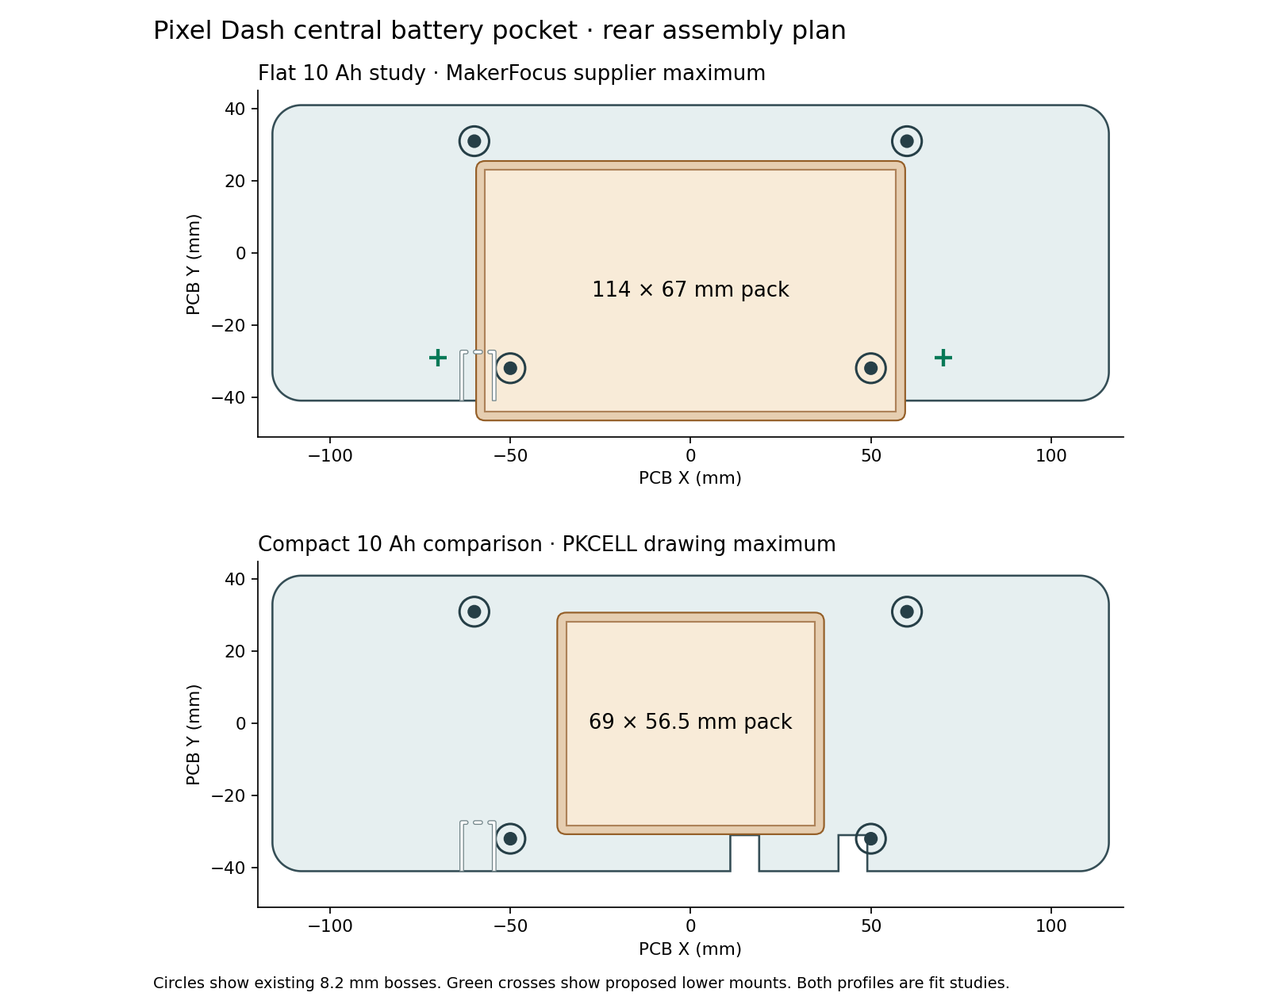
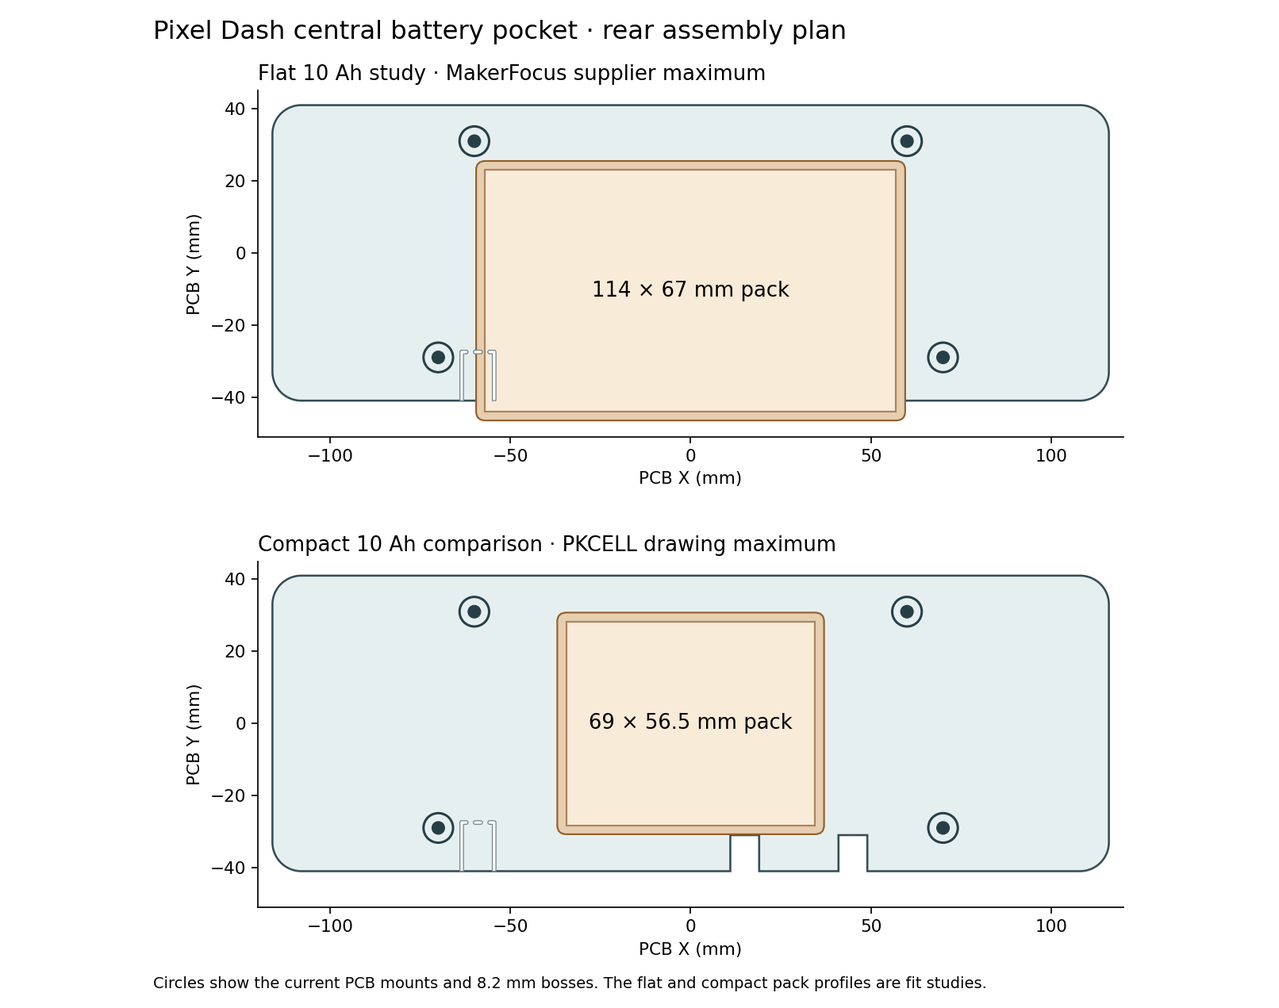
Move the approved lower mounts and replace the DBI connector wiring with RGB888 raster assignments

diff --git a/production/assemble.py b/production/assemble.py
@@ -74,18 +74,6 @@ for e in channel:
         continue
     board.append(rename(e,mapping))
 
-# Give panel passives functional designators and preserve pin/net identities.
-panel_names = {"R_GPU_LCD_WR":"R_LCD_WR","R_GPU_LCD_RD":"R_LCD_RD"}
-def panel_name(value):
-    if isinstance(value, str):
-        for k, v in panel_names.items():
-            value=value.replace(k,v)
-    elif isinstance(value, list):
-        return [panel_name(v) for v in value]
-    elif isinstance(value, dict):
-        return {k:panel_name(v) for k,v in value.items()}
-    return value
-board = panel_name(board)
 pins = { (p["source_component_id"],hint):p for p in board if p["type"]=="source_port"
          for hint in [p["name"],*p.get("port_hints",[])] }
 parts = {e["name"]:e for e in board if e["type"]=="source_component"}
@@ -115,6 +103,45 @@ with (root/"interface.csv").open() as f:
         if balls[ball] != row["Pad"]:
             raise ValueError(f"Wrong processor ball {row}")
         interface_trace(row["Signal"], "U1", ball, row["Peripheral"], row["Pin"])
+
+# The bare raster panel has independent analog rails and a floating LED string.
+# Bind the physical contacts independently of the pending bias and LED drivers.
+panel_rails = {"GND": (5, 36, 38, 48), "LCD_VCOM": (6, 46), "LCD_DVDD": (7,),
+               "LCD_VGH": (41,), "LCD_VGL": (42,), "LCD_AVDD": (43,),
+               "LCD_LED_A": (1, 2), "LCD_LED_K": (3, 4)}
+def bind_supply(ref, terminal, net):
+    pin = port(ref, terminal)
+    key = net["subcircuit_connectivity_map_key"]
+    if pin.get("subcircuit_connectivity_map_key", key) != key:
+        raise ValueError(f"Conflicting assignment for {ref}.{terminal}")
+    pin["subcircuit_connectivity_map_key"] = key
+    sid = f"rail_{ref}_{terminal}"
+    board.append(dict(type="source_trace", source_trace_id=sid, name=sid,
+                      connected_source_port_ids=[pin["source_port_id"]],
+                      connected_source_net_ids=[net["source_net_id"]], subcircuit_connectivity_map_key=key))
+    return sid
+
+# The old FPC doubled as a ground tie for the right shoulder switch.
+bind_supply("SW_R", "pin4", ground(board))
+for name, numbers in panel_rails.items():
+    if name == "GND":
+        net = ground(board)
+    else:
+        net = dict(type="source_net", source_net_id="raster_" + name, name=name,
+                   subcircuit_connectivity_map_key="raster_" + name)
+        board.append(net)
+    for number in numbers:
+        terminal = f"pin{number}"
+        sid = bind_supply("J_LCD", terminal, net)
+        if name == "GND":
+            land = one(board, "pcb_port", source_port_id=port("J_LCD", terminal)["source_port_id"])
+            board.append(dict(type="pcb_via", pcb_via_id=f"pcb_raster_ground_{number}",
+                              source_trace_id=sid, source_net_id=net["source_net_id"],
+                              subcircuit_connectivity_map_key=net["subcircuit_connectivity_map_key"],
+                              x=land["x"], y=land["y"], from_layer="top", to_layer="inner1",
+                              layers=["top", "inner1"], hole_diameter=0.125, outer_diameter=0.28))
+for touch in ("SCL", "SDA", "IRQ"):
+    bind_supply("R_TOUCH_" + touch, "pin2", one(board, "source_net", name="VDD_IO_3V3_SEQ"))
 
 for index, axis in enumerate(("LX", "LY", "RX", "RY")):
     interface_trace("ADC_" + axis, "U_JOY_ADC", f"AIN{index}", "C_JOY_" + axis, "pin1")
@@ -251,6 +278,17 @@ for number in (3, 98, 108, 109):
         if {point["from_layer"], point["to_layer"]} != {"top", "inner1"}:
             raise ValueError(f"Unexpected ground transition in {number}")
         add_ground_return(trace, point, f"pcb_retained_ground_{number}_{index}")
+# Both L1-L2 transitions on the retained backlight gate need plated lands.
+gate = one(board, "pcb_trace", pcb_trace_id="pcb_trace_14")
+gate_source = one(board, "source_trace", source_trace_id=gate["source_trace_id"])
+for index, via in enumerate(p for p in gate["route"] if p["route_type"] == "via"):
+    if {via["from_layer"], via["to_layer"]} != {"top", "inner1"}:
+        raise ValueError("Unexpected backlight gate span")
+    board.append(dict(type="pcb_via", pcb_via_id=f"pcb_backlight_gate_{index}",
+                      pcb_trace_id=gate["pcb_trace_id"], source_trace_id=gate_source["source_trace_id"],
+                      subcircuit_connectivity_map_key=gate_source["subcircuit_connectivity_map_key"],
+                      x=via["x"], y=via["y"], from_layer="top", to_layer="inner1",
+                      layers=["top", "inner1"], hole_diameter=0.125, outer_diameter=0.28))
 for index, (x, y) in enumerate(json.loads((root / "system-ground-stitches.json").read_text())):
     board.append(dict(type="pcb_via", pcb_via_id=f"pcb_mmc0_return_{index}",
                       source_net_id=gnd["source_net_id"],

diff --git a/checks/check-panel-storage.py b/checks/check-panel-storage.py
@@ -1,30 +1,39 @@
-"""Check MMC card-detect and optional panel touch wiring at both IC and connector."""
+"""Validate raster pinmux, FPC color order, MMC card detect and touch bias connections."""
+import csv
 import json
 import sys
 from pathlib import Path
 
-elements = json.loads(Path(sys.argv[1]).read_text())
-components = {p["name"]: p["source_component_id"] for p in elements if p["type"] == "source_component"}
-ports = {(p["source_component_id"], p["name"]): p["source_port_id"] for p in elements if p["type"] == "source_port"}
-source = [t for t in elements if t["type"] == "source_trace"]
+board = json.loads(Path(sys.argv[1]).read_text())
+root = Path(__file__).resolve().parents[1]
+parts = {e["name"]: e["source_component_id"] for e in board if e["type"] == "source_component"}
+ports = {(e["source_component_id"], e["name"]): e["source_port_id"] for e in board if e["type"] == "source_port"}
+traces = {e["source_trace_id"]: e for e in board if e["type"] == "source_trace"}
+with (root / "production/interface.csv").open() as f:
+    rows = {r["Signal"]: r for r in csv.DictReader(f)}
+balls = json.loads((root / "am3354/processor-balls.json").read_text())
+# TI SPRZ360 section 3.1.1 Figure 2, in LCD_DATA0 through LCD_DATA23 order.
+colors = "R3 R4 R5 R6 R7 G2 G3 G4 G5 G6 G7 B3 B4 B5 B6 B7 R2 B2 R1 G1 B1 R0 G0 B0".split()
+contacts = {f"{color}{bit}": start+7-bit for color,start in (("B",12),("G",20),("R",28)) for bit in range(8)}
 keys = set()
-for net, ball, part, pin, pull in [
-    ("TOUCH_SCL", "D15", "J_LCD", "pin44", "R_TOUCH_SCL"),
-    ("TOUCH_SDA", "D16", "J_LCD", "pin45", "R_TOUCH_SDA"),
-    ("TOUCH_IRQ", "V14", "J_LCD", "pin46", "R_TOUCH_IRQ"),
-    ("SD_DETECT", "C15", "J_SD", "CD", None),
-]:
-    cpu = ports[components["U1"], ball]
-    endpoint = ports[components[part], pin]
-    system, = [t for t in source if t["source_trace_id"] == "system_" + net]
-    assert {cpu, endpoint} == set(system["connected_source_port_ids"]), net
-    key = system["subcircuit_connectivity_map_key"]
-    assert key not in keys
+def check(signal, ball, mode, part, pin):
+    row = rows[signal]
+    assert (row["Ball"], row["Pad"], int(row["Mode"])) == (ball, balls[ball], mode), signal
+    trace = traces["system_" + signal]
+    assert set(trace["connected_source_port_ids"]) == {ports[parts["U1"],ball], ports[parts[part],pin]}, signal
+    key = trace["subcircuit_connectivity_map_key"]
+    assert key not in keys, signal
     keys.add(key)
-    if pull:
-        pull_pin = ports[components[pull], "pin1"]
-        assert any({pull_pin,endpoint}.issubset(t["connected_source_port_ids"]) and
-                   t["subcircuit_connectivity_map_key"] == key for t in source), net
-sd_data3, = [t for t in source if t["source_trace_id"] == "system_SD_DAT3"]
-assert sd_data3["subcircuit_connectivity_map_key"] not in keys
-print("Panel I2C1, touch interrupt and separate MMC0 card-detect endpoints verified in source.")
+
+upper = ["U13","V13","R12","T12","U12","T11","T10","U10"]
+for i,color in enumerate(colors):
+    ball = next(b for b,p in balls.items() if p == f"LCD_DATA{i}") if i < 16 else upper[i-16]
+    check(f"LCD_D{i}", ball, int(i >= 16), "J_LCD", f"pin{contacts[color]}")
+for signal,ball,contact,mode in (("PCLK","V5",37,0),("HSYNC","R5",11,0),("VSYNC","U5",10,0),
+                                  ("DE","R6",9,0),("RESET","R13",44,7)):
+    check("LCD_"+signal, ball, mode, "J_LCD", f"pin{contact}")
+for sig,ball,mode in (("SCL","D15",3),("SDA","D16",3),("IRQ","V14",7)):
+    check("TOUCH_"+sig,ball,mode,"R_TOUCH_"+sig,"pin1")
+check("SD_DETECT","C15",5,"J_SD","CD")
+assert traces["system_SD_DAT3"]["subcircuit_connectivity_map_key"] not in keys
+print("Validated 24 RGB888 pin assignments, raster timing pads, reset, touch pull-up signal ends and MMC0 detect.")

diff --git a/checks/check-battery-pocket.py b/checks/check-battery-pocket.py
@@ -6,11 +6,11 @@ import numpy as np
 import trimesh
 from shapely.geometry import Point, box
 
-board_path, flat_mesh, compact_mesh = sys.argv[1:]
+board_path, flat_mesh, compact_mesh, carrier_mesh = sys.argv[1:]
 with open(board_path) as stream:
     board = json.load(stream)
 mounts = [(p["x"], p["y"]) for p in board if p["type"] == "pcb_hole" and p["hole_diameter"] == 3.3]
-if len(mounts) != 4:
+if set(mounts) != {(-70,-29), (70,-29), (-60,31), (60,31)} or len(mounts) != 4:
     raise ValueError("Expected four 3.3 mm mounting holes")
 for name, mesh_path, dimensions, cy in (
     ("MakerFocus 9065115", flat_mesh, (114, 67, 10.8), -10.5),
@@ -27,9 +27,26 @@ for name, mesh_path, dimensions, cy in (
     # between surfaces for the intersection calculation.
     cell = trimesh.creation.box(dimensions)
     cell.apply_translation([0, cy, -z/2-1.99])
-    if mesh.intersection(cell, engine="manifold").volume > 1e-6:
+    overlap = mesh.intersection(cell, engine="manifold")
+    if not overlap.is_empty and overlap.volume > 1e-6:
         raise ValueError(f"{name} body intersects pocket walls")
     outer = box(*mesh.bounds[0][:2], *mesh.bounds[1][:2])
     conflicts = [p for p in mounts if outer.distance(Point(p)) < 4.1]
+    if conflicts:
+        raise ValueError(f"Pack pocket collides with bosses at {conflicts}")
     print(f"{name}: closed pocket solid, maximum pack body clears walls. "
           f"Overlapping 8.2 mm boss envelopes in plan: {conflicts}")
+
+# Verify actual material and voids through the exported rear carrier at each PCB seat.
+carrier = trimesh.load_mesh(carrier_mesh)
+if not carrier.is_volume or len(carrier.split()) != 1:
+    raise ValueError("Rear carrier must be one closed solid")
+if not np.allclose(carrier.bounds, [[-119.5,-51,-20.3],[119.5,51,-0.8]], atol=1e-5):
+    raise ValueError("Unexpected carrier extent")
+for x, y in mounts:
+    for z, bore in ((-1.0, 1.65), (-6.0, 3.1)):
+        for dx, dy in ((1,0),(-1,0),(0,1),(0,-1)):
+            probes = [[x+dx*r, y+dy*r, z] for r in (bore-.03, bore+.03, 4.07, 4.13)]
+            if carrier.contains(probes).tolist() != [False,True,True,False]:
+                raise ValueError(f"Incorrect seat, head relief or outside wall at {(x,y,z)}")
+print("All four rear-carrier screw bores and head recesses align with the current PCB holes.")

diff --git a/production/raster_panel.py b/production/raster_panel.py
@@ -1,0 +1,45 @@
+"""Remove the old DBI interface before binding the shared FPC lands to the raster panel."""
+import re
+
+LEGACY_PARTS = {"R_GPU_LCD_WR", "R_GPU_LCD_RD", "R_LCD_MODE_PD", "R_LCD_LED", "C_LCD_VCI", "C_LCD_VDDI"}
+TOUCH_PULLS = {"R_TOUCH_SCL", "R_TOUCH_SDA", "R_TOUCH_IRQ"}
+
+
+def clear_dbi_interface(board):
+    parts = {e["name"]: e["source_component_id"] for e in board if e["type"] == "source_component"}
+    dead = {parts[name] for name in LEGACY_PARTS}
+    touch = {parts[name] for name in TOUCH_PULLS}
+    ports = {e["source_port_id"] for e in board if e["type"] == "source_port" and
+             (e["source_component_id"] in touch or
+              (e["source_component_id"] == parts["J_LCD"] and 1 <= e["pin_number"] <= 50))}
+    disconnected_symbols = {e["schematic_port_id"] for e in board if e["type"] == "schematic_port"
+                            and e.get("source_port_id") in ports}
+    dead.update(e["source_trace_id"] for e in board if e["type"] == "source_trace"
+                and ports.intersection(e["connected_source_port_ids"]))
+    while True:
+        removed = set()
+        for e in board:
+            kind = e["type"]
+            identity = kind + "_id"
+            if identity not in e or e[identity] in dead:
+                continue
+            if any((key.endswith("_id") and isinstance(value, str) and value in dead)
+                   or (key.endswith("_ids") and isinstance(value, list) and dead.intersection(value))
+                   for key, value in e.items() if key != identity):
+                removed.add(e[identity])
+        if not removed:
+            break
+        dead.update(removed)
+    result = []
+    for e in board:
+        if e.get(e["type"] + "_id") in dead:
+            continue
+        if e["type"] == "schematic_trace" and disconnected_symbols.intersection(
+                re.findall(r"schematic_port_\d+", e.get("source_trace_id", ""))):
+            continue
+        if e.get("source_port_id") in ports:
+            e.pop("subcircuit_connectivity_map_key", None)
+            if e["type"] == "schematic_port":
+                e["is_connected"] = False
+        result.append(e)
+    return result

diff --git a/production/build_retained.py b/production/build_retained.py
@@ -3,6 +3,7 @@ import gzip
 import json
 import sys
 from pathlib import Path
+from raster_panel import clear_dbi_interface
 
 def build():
     root = Path(__file__).parent
@@ -20,25 +21,7 @@ def build():
             element["route"] = route
     if edits:
         raise ValueError(f"Unapplied route edits: {list(edits)}")
-    # ER-TFT070A2-6 reserves contacts 49 and 50. The old panel grounded them,
-    # including a redundant bridge from the microSD bulk capacitor return.
-    lcd, = [e for e in board if e["type"] == "source_component" and e.get("name") == "J_LCD"]
-    nc = {e["source_port_id"] for e in board if e["type"] == "source_port"
-          and e["source_component_id"] == lcd["source_component_id"] and e["pin_number"] in (49, 50)}
-    if len(nc) != 2:
-        raise ValueError("Missing reserved LCD contacts")
-    traces = {e["source_trace_id"] for e in board if e["type"] == "source_trace"
-              and nc.intersection(e["connected_source_port_ids"])}
-    symbols = {e["schematic_port_id"] for e in board if e["type"] == "schematic_port"
-               and e.get("source_port_id") in nc}
-    board = [e for e in board if e.get("source_trace_id") not in traces and not
-             (e["type"] == "schematic_trace" and symbols.intersection(e.get("source_trace_id", "").split("-")))]
-    for e in board:
-        if e.get("source_port_id") in nc:
-            e.pop("subcircuit_connectivity_map_key", None)
-            if e["type"] == "schematic_port":
-                e["is_connected"] = False
-    return board
+    return clear_dbi_interface(board)
 
 if __name__ == "__main__":
     Path(sys.argv[1]).write_text(json.dumps(build(), separators=(",", ":")))

diff --git a/checks/audit-vref.py b/checks/audit-vref.py
@@ -73,7 +73,7 @@ def verify(elements, check_ddr_power=False, check_ddr_signals=False, check_syste
             terminal = "pin1" if axis[1] == "X" else "pin4"
             required.append([f"{connector}.{terminal}", f"R_JOY_{axis}.pin1"])
     if check_retained_returns:
-        required[2].extend(["C_SD_BULK.pin2", "R_LOGIC_FB_BOTTOM.pin2", "C_AMP_VDD_BULK.pin2", "U_SPK_AMP.PGND2",
+        required[2].extend([*(f"J_LCD.pin{n}" for n in (5, 36, 38, 48)), "C_SD_BULK.pin2", "R_LOGIC_FB_BOTTOM.pin2", "C_AMP_VDD_BULK.pin2", "U_SPK_AMP.PGND2",
                             "J_SPK.pin3", "C_3V3_IN.pin2", "R_LCD_BL_PULLDOWN.pin2"])
     if check_control_bus:
         for signal, ball in (("SCL", "C16"), ("SDA", "C17")):

diff --git a/production/wide_layout.py b/production/wide_layout.py
@@ -12,6 +12,11 @@ def apply_wide_layout(board):
     outline = json.loads(Path(__file__).with_name("wide-outline.json").read_text())
     spec, = [e for e in board if e["type"] == "pcb_board"]
     spec.update(outline)
+    # Move only the two lower enclosure mounts on the wide PCB.
+    for side in (-1, 1):
+        hole, = [e for e in board if e["type"] == "pcb_hole" and e.get("hole_diameter") == 3.3
+                 and (e["x"], e["y"]) == (side * 50, -32)]
+        hole.update(x=side * 70, y=-29)
     # Shell-specific display keepers, cell models and fasteners belong to the
     # small enclosure. The wide design retains the actual controller mechanisms.
     mechanical_offsets = {

diff --git a/checks/check-sysboot.py b/checks/check-sysboot.py
@@ -25,7 +25,9 @@ for bit in range(16):
         word |= 1 << bit
     ball, = [p for p, signal in balls.items() if signal == f"LCD_DATA{bit}"]
     cpu = pin(parts["U1"], ball)
-    panel = pin(parts["J_LCD"], f"pin{32-bit}")
+    # RGB888 Figure 2 assigns the low word to R[7:3], G[7:2], B[7:3].
+    panel_contact = (32,31,30,29,28,25,24,23,22,21,20,16,15,14,13,12)[bit]
+    panel = pin(parts["J_LCD"], f"pin{panel_contact}")
     tap, = [t for t in traces if {cpu,b}.issubset(t["connected_source_port_ids"])]
     bus, = [t for t in traces if {cpu,panel}.issubset(t["connected_source_port_ids"])]
     key = bus["subcircuit_connectivity_map_key"]

diff --git a/README.md b/README.md
@@ -2,15 +2,15 @@
 
 ## Wide handheld checkpoint
 
-All 50 AM3354-to-DDR3L signals reach their intended balls on 50 distinct electrical nodes. After local changes to 33 routes, the adjacent plane covers the full trace width for all 50 signals outside their own via launch antipads. The board-wide 0.102 mm unrelated-copper, 0.1524 mm via-edge and drill-spacing checks pass. Each of the 7,325 routed strokes matches the copper Gerbers, and all five drill files match the board.
+All 50 AM3354-to-DDR3L signals reach their intended balls on 50 distinct electrical nodes. After local changes to 33 routes, the adjacent plane covers the full trace width for all 50 signals outside their own via launch antipads. The board-wide 0.102 mm unrelated-copper, 0.1524 mm via-edge and drill-spacing checks pass. Each of the 6,911 routed strokes matches the copper Gerbers, and all five drill files match the board.
 
-The byte-0 and byte-1 planar spreads measure 7.091 and 5.347 mm against the 0.635 mm limit. Clock, DQS0 and DQS1 planar mismatch measures 0.095, 0.110 and 0.090 mm against 0.127 mm. Four address/control signals remain outside their length window. Impedance and signal timing still require verification on the finished stackup. The engineering export contains 216 fitted references. The assembly orientation screen flags six references for review. Of the 70 tracked handheld connections, 30 have physical continuity. The plated-span audit flags 16 inherited layer transitions. The old display interface, power integration, enclosure and fabrication package remain open.
+The byte-0 and byte-1 planar spreads measure 7.091 and 5.347 mm against the 0.635 mm limit. Clock, DQS0 and DQS1 planar mismatch measures 0.095, 0.110 and 0.090 mm against 0.127 mm. Four address/control signals remain outside their length window. Impedance and signal timing still require verification on the finished stackup. The engineering export contains 210 fitted references. The assembly orientation screen flags six references for review. The plated-span audit finds zero missing transitions. The four raster connector ground contacts reach L2. All 24 RGB888 source assignments follow TI SPRZ360 Figure 2; pixel clock, data enable, sync signals and reset have new source assignments. Raster signal copper, panel bias and LED drivers, touch flex, system power, boot-strap copper and the fabrication package remain open.
 
 [Current PCB snapshot, top and bottom copper](previews/handheld.png) · [Current DDR timing measurements](checks/current-timing.txt)
 
 I²C0 now reaches the PMIC, joystick ADC and both pull-ups from the processor. The clock escape uses a local recess in the L3 DDR island, and the audio PWM trace still reaches its input resistor. Run `python checks/audit-vref.py dist/index.circuit.json --control-bus` to verify the two bus nodes. Both pull-ups still depend on completion of the sequenced I/O supply.
 
-This branch builds a **232 × 82 mm single four-layer PCB** for the wider handheld. The d-pad, face buttons, shoulders and joystick connectors moved into the fixed side grips. Start and Select sit below the main controls. Nine modeled controls clear the centered 164.9 × 100.0 mm bare BuyDisplay ER-TFT070A2-6 panel envelope in plan view. The full display assembly, cover lens, bezel, FPC bend and replacement rear shell still require integration. The native display circuit still describes the earlier panel. The 7-inch panel needs an RGB raster interface and a constant-current backlight driver.
+This branch builds a **232 × 82 mm single four-layer PCB** for the wider handheld. The d-pad, face buttons, shoulders and joystick connectors moved into the fixed side grips. Start and Select sit below the main controls. Nine modeled controls clear the centered 164.9 × 100.0 mm bare BuyDisplay ER-TFT070A2-6 panel envelope in plan view. The full display assembly, cover lens, bezel, FPC bend and replacement rear shell still require integration. The raster connector is assigned to the 7-inch panel. Bias, scan straps and the constant-current backlight driver still require integration.
 
 The placement pass removes 20 displaced control traces and records each as an open. DDR copper and component centers stay fixed. The all-layer Gerber shorts check passes and the placement-stage via clearance count was 25. The smaller case, battery tub and running design history are preserved on [am3354-production](https://github.com/Abse2001/pixel-dash/tree/am3354-production). No fabrication release has been made.
 
@@ -180,3 +180,5 @@ Two detached tracks, pcb_trace_1161 and pcb_trace_1437, touched no surviving tra
 The independent copper check reconstructs schematic nodes from connected source ports and named nets, then cross-checks PCB trace, pad and via net assignments. This catches inconsistent labels that could make two unrelated conductors appear to share a net. Deliberately merging two source net labels and mislabeling a routed via in separate test copies both triggered errors.
 
 Reserved panel contacts 49 and 50 are isolated in the source, schematic and copper. The microSD bulk capacitor has a dedicated L1–L2 ground via in its pad. The `--retained-returns` screen walks from that pad to the main ground plane. All 50 DDR signals retain full-width reference coverage.
+
+The approved wide-board lower mounts and rear-carrier bores are at X = ±70 mm, Y = −29 mm. The upper mounts remain at X = ±60 mm, Y = 31 mm. All four physical holes match the Excellon export. The original tub and compact shell are separate fallbacks.

diff --git a/power/runtime-budget.md b/power/runtime-budget.md
@@ -57,6 +57,6 @@ The BQ25606RGER is a replacement candidate available as JLCPCB C374063. Its swit
 
 The separate parametric insert in `mechanical/wide/battery-pocket.scad` preserves the compact shell and its tub. The default flat profile uses the MakerFocus 9065115 supplier tolerance of ±2 mm on 112 × 65 × 8.8 mm, giving a maximum study envelope of **114 × 67 × 10.8 mm**. The YELUFT listing picture shows MakerFocus branding, but provides no model or tolerance tying the shipped pack to that envelope. The compact profile uses the PKCELL drawing maxima of **69 × 56.5 × 19 mm**. Neither profile selects a new battery SKU. [MakerFocus product specifications](https://www.makerfocus.com/products/makerfocus-3-7v-lipo-battery-10000mah-lithium-rechargeable-battery-9065115-with-micro-ph2-0-plug-for-raspberry-pi-ups-board) · [PKCELL drawing, page 8](https://cdn-shop.adafruit.com/product-files/5035/5035_10050mAh_3.7V_A1____20210511.pdf)
 
-The flat insert measures 119 × 72 × 14.3 mm outside. Its provisional clearances are 1 mm per side and 2 mm in depth. An open-top lead slot faces the connector side. Swelling allowance, pack retention, cable bend, protection board, NTC placement, connector polarity and vertical separation from the PCB still require verification for the selected pack. The flat profile overlaps the lower two existing PCB mounting bosses in plan. A symmetric alternative at X = ±70, Y = −29 mm clears the pocket and existing NTC cutouts. On the right the nearest non-pour copper is KEY_START, 4.709 mm from the proposed center. The compact insert measures 74 × 61.5 × 22.5 mm and clears all four boss envelopes in plan.
+The flat insert measures 119 × 72 × 14.3 mm outside. Its provisional clearances are 1 mm per side and 2 mm in depth. An open-top lead slot faces the connector side. Swelling allowance, pack retention, cable bend, protection board, NTC placement, connector polarity and vertical separation from the PCB still require verification for the selected pack. The flat profile overlapped the original lower mounting bosses. The approved wide PCB and rear carrier now place the lower mounts at X = ±70, Y = −29 mm, clearing the pocket and existing NTC cutouts. On the right the nearest non-pour copper is KEY_START, 4.709 mm from the proposed center. The compact insert measures 74 × 61.5 × 22.5 mm and clears all four boss envelopes in plan.
 
-To reproduce the geometry check, export the SCAD with OpenSCAD twice using `profile="flat"` and `profile="compact"`, then run `python checks/check-battery-pocket.py dist/index.circuit.json flat.stl compact.stl`. The screen tests closed solids, maximum pack dimensions and screw-boss overlap. Assembly Z placement and rear-shell integration are pending.
+To reproduce the geometry check, export the SCAD with OpenSCAD twice using `profile="flat"` and `profile="compact"`, then run `python checks/check-battery-pocket.py dist/index.circuit.json flat.stl compact.stl rear-carrier.stl`. Export the carrier STL from `mechanical/wide/rear-carrier.scad`. The screen tests closed solids, nominal screw bores and head counterbores against the PCB hole centers, maximum pack dimensions and screw-boss overlap. Assembly Z placement and rear-shell integration are pending.
